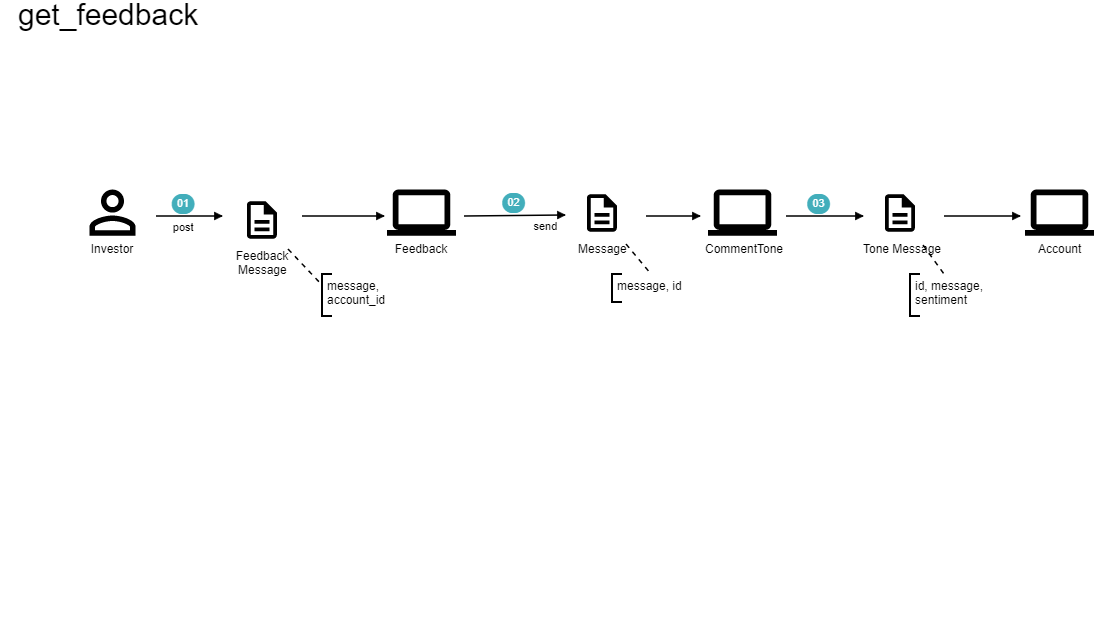
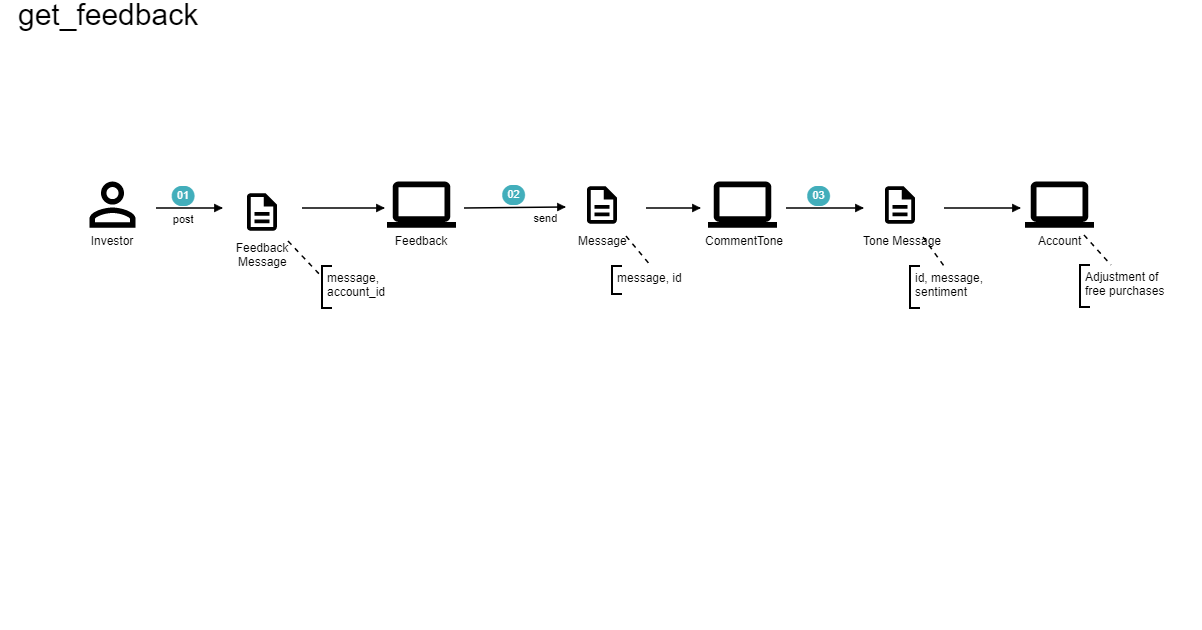
Small adaptions (#64)
* :truck: move postman collection to postman folder

* :art: add notice for account

Changed region(s): [[0.0608, 0.2714, 0.9723, 0.4825], [0.0, 0.0, 0.1823, 0.0603]]

diff --git a/README.md b/README.md
@@ -81,7 +81,7 @@ This project is licensed under the Mozilla Public License - see the [LICENSE.md]
 [architecture]: ./doc/architecture/architecture.png
 [documentation_background]: ./doc/background
 [documentation_stories]: ./doc/domain_stories
-[postman]: ./doc/Stocktrader.postman_collection.json
+[postman]: ./doc/postman/Stocktrader.postman_collection.json
 [contributing]: CONTRIBUTING.md
 [license]: LICENSE.md
 [versioning]: http://semver.org/
